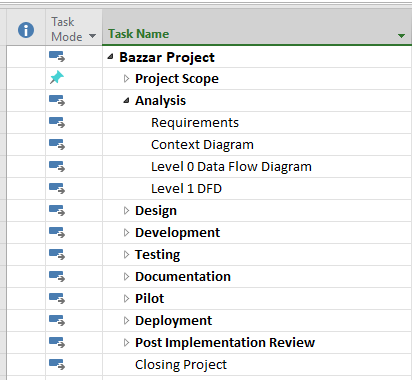
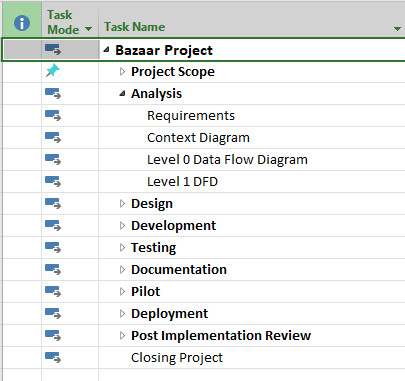
Context Diagram

diff --git a/index.html b/index.html
@@ -48,8 +48,9 @@
         <section class="page-section" id="projectworkbook">
             <div class="container">
                 <div class="text-center">
-                    <h2 class="section-heading text-uppercase">Project Workbook</h2>
-                    <h3 class="section-subheading text-muted"></h3>
+                    <h2 class="section-heading text-uppercase">Bazaar Project</h2>
+                    <h3 class="section-subheading text-muted">Deliverables</h3>
+                    <!--
                     <p>Project Overview</p>
                     <p>Initiation plan and SSR</p>
                     <p>Project scope and risks</p>
@@ -58,7 +59,7 @@
                     <p>Process descriptions</p>
                     <p>Team correspondence</p>
                     <p> Project charter</p>
-                    <p></p> Project scheduler</p>
+                    <p></p> Project scheduler</p>  -->
 
                 </div>
                 <div class="row text-center">
@@ -89,19 +90,37 @@
                     <div class="col-md-4">
                         <span class="fa-stack fa-4x">
                             <i class="fas fa-circle fa-stack-2x text-primary"></i>
-                            <i class="fas fa-laptop fa-stack-1x fa-inverse"></i>
+                            <i class="fas fa-lock fa-stack-1x fa-inverse"></i>
                         </span>
                         <h4 class="my-3">Project Scope Statement</h4>
+
+
+
+
+                        
                         <p class="text-muted">A document prepared for the customer that describes what the project will deliver and outlines generally at a high level all work required to complete the project.</p>
-                        <img src="assets/img/ProjectScopeStatement.png" width = "300" />
+                        
                     </div>
                     <div class="col-md-4">
                         <span class="fa-stack fa-4x">
                             <i class="fas fa-circle fa-stack-2x text-primary"></i>
-                            <i class="fas fa-lock fa-stack-1x fa-inverse"></i>
+                            <i class="fas fa-laptop fa-stack-1x fa-inverse"></i>
                         </span>
                         <h4 class="my-3">Context Diagram</h4>
-                        <p class="text-muted">Lorem ipsum dolor sit amet, consectetur adipisicing elit. Minima maxime quam architecto quo inventore harum ex magni, dicta impedit.</p>
+                        <!-- <p class="text-muted">Context Diagram</p>  -->
+                            <!-- Portfolio item 14-->
+                            <div class="portfolio-item">
+                                <a class="portfolio-link" data-bs-toggle="modal" href="#portfolioModal14">
+                                    <div class="portfolio-hover">
+                                        <div class="portfolio-hover-content"><i class="fas fa-plus fa-3x"></i></div>
+                                        <div class="portfolio-caption-heading"></div>
+                                        <div class="portfolio-caption-subheading text-muted">Level 0</div>
+                                        <div class="portfolio-caption-subheading text-muted"></div>
+                                    </div>
+                                </a>
+                            </div>
+
+                        <p class="text-muted"></p>
                     </div>
                     <div class="col-md-4">
                         <span class="fa-stack fa-4x">
@@ -109,7 +128,19 @@
                             <i class="fas fa-laptop fa-stack-1x fa-inverse"></i>
                         </span>
                         <h4 class="my-3">Systems Requirements Document</h4>
-                        <p class="text-muted">Lorem ipsum dolor sit amet, consectetur adipisicing elit. Minima maxime quam architecto quo inventore harum ex magni, dicta impedit.</p>
+                        <!-- <p class="text-muted">Requirements collection</p>  -->
+                            <!-- Portfolio item 13-->
+                            <div class="portfolio-item">
+                                <a class="portfolio-link" data-bs-toggle="modal" href="#portfolioModal13">
+                                    <div class="portfolio-hover">
+                                        <div class="portfolio-hover-content"><i class="fas fa-plus fa-3x"></i></div>
+                                        <div class="portfolio-caption-heading"></div>
+                                        <div class="portfolio-caption-subheading text-muted">Requirements</div>
+                                        <div class="portfolio-caption-subheading text-muted"></div>
+                                    </div>
+                                </a>
+                            </div>
+                        <p class="text-muted"></p>
                     </div>
                     <div class="col-md-4">
                         <span class="fa-stack fa-4x">
@@ -821,12 +852,18 @@
                                                 <div class="portfolio-caption-heading"></div>
                                                 <div class="portfolio-caption-subheading text-muted"></div>
 
-                                                <ul class="list-inline">
+                                                <ol class="list-inline">
                                                     <li>
-                                                        <p>1. Scope</p>
+                                                        <p>1. Project Scope</p>
                                                     </li>
                                                     <li>
-                                                        <p>2. Analysis/Software Requirements</p>
+                                                        <p>2. Analysis</p>
+                                                        <p>2.1 Requirements</p>
+                                                        <p>2.2 Context Diagram</p>
+                                                        <p>2.3 Level 0 Data Flow Diagram</p>
+                                                        <p>2.4 Level 1 DFD</p>
+                                                            
+
                                                     </li>
                                                     <li>
                                                         <p>3. Design</p>
@@ -836,9 +873,6 @@
                                                     </li>
                                                     <li>
                                                         <p>5. Testing</p>
-                                                    </li>
-                                                    <li>
-                                                        <p>6. Training</p>
                                                     </li>
                                                     <li>
                                                         <p>7. Documentation</p>
@@ -853,9 +887,9 @@
                                                         <p>10. Post implementation Review</p>
                                                     </li>
                                                     <li>
-                                                        <p>11. Software development template complete</p>
+                                                        <p>11. Closing Project</p>
                                                     </li>
-                                                </ul>
+                                                </ol>
                                             </div>
                                         </div>
                                             <button class="btn btn-primary btn-xl text-uppercase" data-bs-dismiss="modal" type="button">
@@ -869,6 +903,71 @@
                         </div>
                     </div>
                 </div>
+
+                                <!-- Portfolio item 13 modal popup-->
+                                <div class="portfolio-modal modal fade" id="portfolioModal13" tabindex="-1" role="dialog" aria-hidden="true">
+                                    <div class="modal-dialog">
+                                        <div class="modal-content">
+                                            <div class="close-modal" data-bs-dismiss="modal"><img src="assets/img/close-icon.svg" alt="Close modal" /></div>
+                                            <div class="container">
+                                                <div class="row justify-content-center">
+                                                    <div class="col-lg-8">
+                                                        <div class="modal-body">
+                                                            <!-- Project details-->
+                                                            <h2 class="text-uppercase">Systems Requirements Document</h2>
+                                                            <p class="item-intro text-muted"></p>
+                                                            <img class="img-fluid d-block mx-auto" src="assets/img/requirements.PNG" alt="..." />
+                                                            <p></p>
+                                                            <div class="portfolio-caption">
+                                                                <div class="portfolio-caption-heading"></div>
+                                                                <div class="portfolio-caption-subheading text-muted"></div>
+            
+                                                            </div>
+                                                        </div>
+                                                            <button class="btn btn-primary btn-xl text-uppercase" data-bs-dismiss="modal" type="button">
+                                                                <i class="fas fa-times me-1"></i>
+                                                                Back to Project
+                                                            </button>
+                                                        </div>
+                                                    </div>
+                                                </div>
+                                            </div>
+                                        </div>
+                                    </div>
+                                </div>
+
+                                
+                                <!-- Portfolio item 14 modal popup-->
+                                <div class="portfolio-modal modal fade" id="portfolioModal14" tabindex="-1" role="dialog" aria-hidden="true">
+                                    <div class="modal-dialog">
+                                        <div class="modal-content">
+                                            <div class="close-modal" data-bs-dismiss="modal"><img src="assets/img/close-icon.svg" alt="Close modal" /></div>
+                                            <div class="container">
+                                                <div class="row justify-content-center">
+                                                    <div class="col-lg-8">
+                                                        <div class="modal-body">
+                                                            <!-- Project details-->
+                                                            <h2 class="text-uppercase">Context Diagram</h2>
+                                                            <p class="item-intro text-muted"></p>
+                                                            <img class="img-fluid d-block mx-auto" src="assets/img/Level 0.PNG" alt="..." />
+                                                            <p></p>
+                                                            <div class="portfolio-caption">
+                                                                <div class="portfolio-caption-heading"></div>
+                                                                <div class="portfolio-caption-subheading text-muted"></div>
+            
+                                                            </div>
+                                                        </div>
+                                                            <button class="btn btn-primary btn-xl text-uppercase" data-bs-dismiss="modal" type="button">
+                                                                <i class="fas fa-times me-1"></i>
+                                                                Back to Project
+                                                            </button>
+                                                        </div>
+                                                    </div>
+                                                </div>
+                                            </div>
+                                        </div>
+                                    </div>
+                                </div>
         <!-- Bootstrap core JS-->
         <script src="https://cdn.jsdelivr.net/npm/bootstrap@5.0.1/dist/js/bootstrap.bundle.min.js"></script>
         <!-- Core theme JS-->
